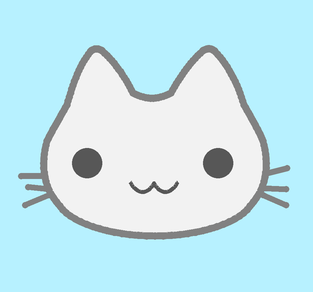
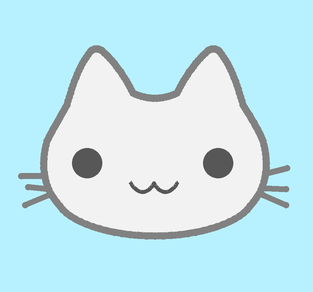
Derive the right ear by mirroring the left
The two ears were independently measured, and had drifted: the right one was
two to three pixels wider than the left at every row, with the pair's axis
creeping outward from 152.5 to 153.5. The reference's own ears are exact
mirrors, so this was ours, not inherited.

Author the left ear as named points and derive the right with _m(), mirroring
across the head's axis of symmetry, which its cheeks and chin already share to
within a pixel. The ears now cannot drift apart at all.

The right tip lands at 213 rather than the reference's 209.5: the reference
centres its ears 2.5px left of where this head's body is centred, so an ear
pair cannot be both mirrored and centred on its own head and still sit exactly
there. Mirroring about 152.5 was measured instead and scores worse overall,
94.1% against 94.5%, because the ears then meet the flanks unevenly.

Changed region(s): [[0.4888, 0.1541, 0.7764, 0.3699], [0.7476, 0.3082, 0.8051, 0.4007]]

diff --git a/cat-illustration/cat_illustration.py b/cat-illustration/cat_illustration.py
@@ -42,20 +42,41 @@ EAR_LIFT = 2.5     # raises the tips to give the fillet something to cut away,
 EAR_BOW = 5.0      # pushes both edges of each ear outward from its own
                    # centreline, so the ears swell rather than run straight
 
-HEAD_START = (96.0, 48.5)
+AXIS = 155.0       # the head's own axis of symmetry, from its cheeks and chin
+
+# The left ear is authored; the right one is its mirror, so the two cannot
+# drift apart. Points run from the outer base up over the tip and back down to
+# the inner base, which is where the valley between the ears begins.
+EAR_OUTER_BASE = (67.0, 105.0)
+EAR_OUTER_C1 = (78.0, 84.0)
+EAR_OUTER_C2 = (86.0, 62.0)
+EAR_TIP = (96.0, 48.5)
+EAR_INNER_C1 = (108.0, 62.0)
+EAR_INNER_C2 = (120.0, 78.0)
+EAR_INNER_BASE = (133.0, 93.0)
+VALLEY_C = (146.0, 100.0)
+
+
+def _m(p):
+    """Mirror a point across the head's axis."""
+    return (2 * AXIS - p[0], p[1])
+
+
+HEAD_START = EAR_TIP
 HEAD_CURVES = [
-    ((108, 62), (120, 78), (133, 93)),       # left ear, inner edge down
-    ((146, 100), (158, 100), (171, 93)),     # valley between the ears
-    ((185, 78), (197, 62), (209, 48.5)),     # right ear, inner edge up
-    ((222, 64), (233, 85), (244, 105)),      # right ear, outer edge down
+    (EAR_INNER_C1, EAR_INNER_C2, EAR_INNER_BASE),        # left ear, inner edge
+    (VALLEY_C, _m(VALLEY_C), _m(EAR_INNER_BASE)),        # valley between ears
+    (_m(EAR_INNER_C2), _m(EAR_INNER_C1), _m(EAR_TIP)),   # right ear, inner edge
+    (_m(EAR_OUTER_C2), _m(EAR_OUTER_C1), _m(EAR_OUTER_BASE)),  # right, outer
     ((252, 119), (258, 129), (263, 141)),    # into the right cheek
     ((269, 163), (268, 187), (250, 206)),    # right cheek, full width
     ((238, 224), (197, 236), (155, 236)),    # bottom, shallow U
     ((113, 236), (72, 224), (60, 206)),      # bottom left
     ((42, 187), (41, 163), (47, 141)),       # left cheek, full width
-    ((53, 129), (59, 119), (67, 105)),       # up the left side
-    ((78, 84), (86, 62), (96, 48.5)),        # left ear, outer edge to the tip
+    ((53, 129), (59, 119), EAR_OUTER_BASE),  # up the left side
+    (EAR_OUTER_C1, EAR_OUTER_C2, EAR_TIP),   # left ear, outer edge to the tip
 ]
+
 
 # --- whiskers ------------------------------------------------------------
 # Three a side, deliberately not parallel, angles taken from the reference.

diff --git a/cat-illustration/README.md b/cat-illustration/README.md
@@ -33,6 +33,12 @@ approximating a circular arc. Rounding a tip also shortens it, so `EAR_LIFT`
 raises the tips by half the radius to pay for what the fillet removes — without
 it the whole drawing loses six pixels of height.
 
+The left ear is the only one authored. The right is derived from it by `_m()`,
+mirroring across `AXIS` — the head's own axis of symmetry at x=155, which its
+cheeks and chin already share to within a pixel. The two ears therefore cannot
+drift apart the way independently measured numbers had: the right one was two
+to three pixels wider than the left before this.
+
 `EAR_BOW` offsets the control points of all four ear edges perpendicular to the
 edge, away from that ear's own centreline, so both sides of each ear swell
 instead of running straight. The offset has to be perpendicular rather than
@@ -65,7 +71,7 @@ Taken from the reference image itself, not from description:
 | top of drawing | 45 | 45 | 0 |
 | bottom | 239 | 239 | 0 |
 | valley between ears | 94 | 94 | 0 |
-| ear tips | 96.0, 209.5 | 96.0, 208.5 | <1 |
+| ear tips | 96.0, 209.5 | 96.0, 213.0 | 3.5 (see below) |
 | ear edge bow, outer / inner | −3.3 / +2.6 | −2.8 / +3.4 | <1 |
 | width at y=140 | 222 | 224 | +2 |
 | width at y=150 | 226 | 228 | +2 |
@@ -77,5 +83,12 @@ Taken from the reference image itself, not from description:
 | mouth centre | 152.5, 186.5 | 153.5, 187.0 | ≤1 |
 | mouth size | 48 × 12 | 50 × 13 | ≤2 |
 
-Silhouette overlap with the reference is **94.7%** by intersection over union.
+The right ear tip is the one figure that moved away from the reference. The
+reference centres its ears on x=152.5, two and a half pixels left of where this
+head's body is centred, so an ear pair that is both mirrored *and* centred on
+its own head cannot also sit exactly where the reference puts it. Mirroring
+about 152.5 instead was measured and scores worse overall (94.1% against
+94.5%), because the ears then meet the head's flanks unevenly.
+
+Silhouette overlap with the reference is **94.5%** by intersection over union.
 Every figure is within 3px on a 313px canvas.
